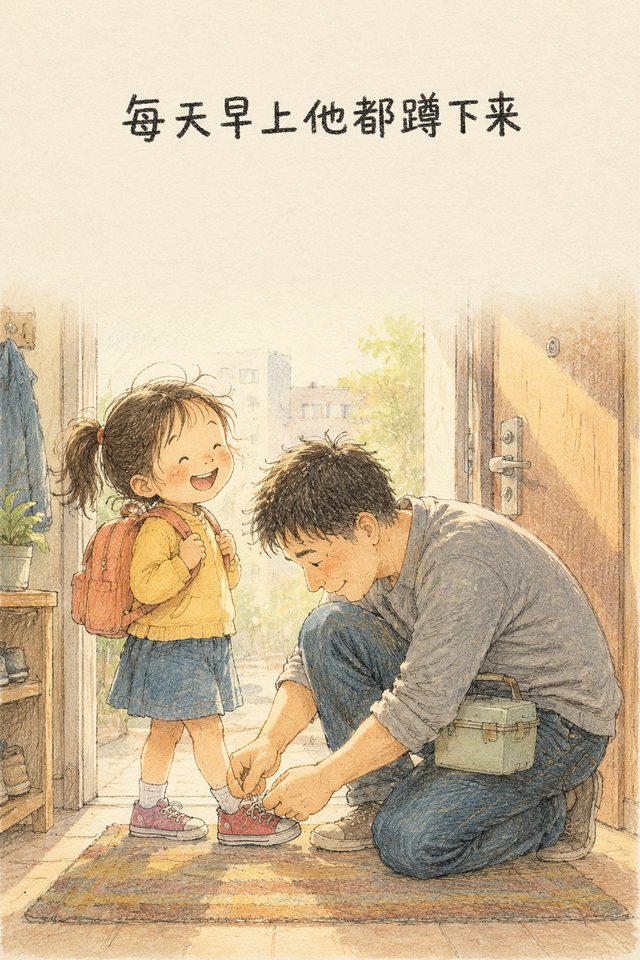
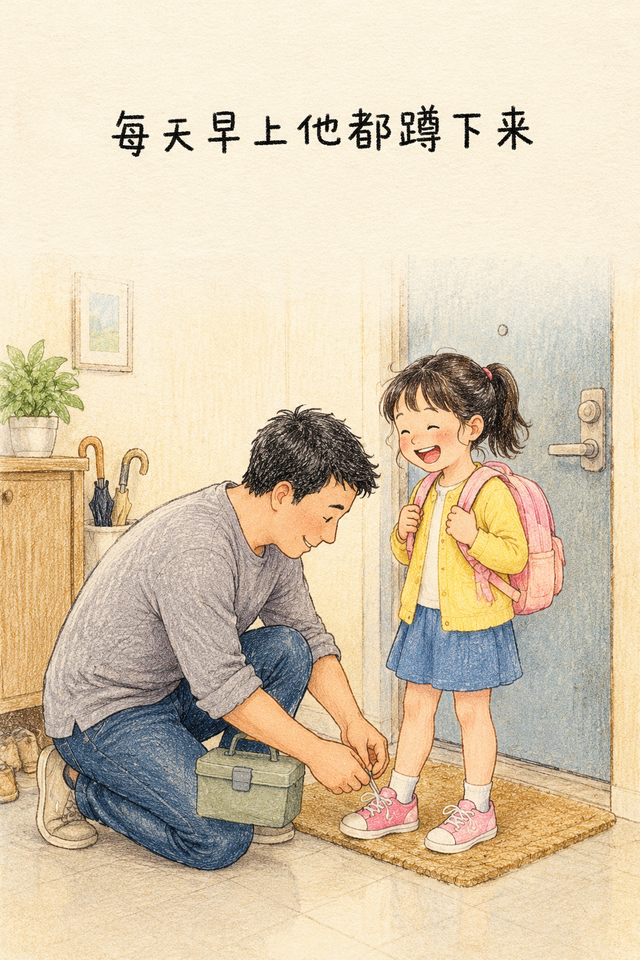
fix(frazee): 画风段改为 handraw-style 原库三段式规范，删除自编画风描述
- STYLES.md / SKILL.md：frazee 配方的画风段只保留 Style name + Reference author/style name
  + Core style traits（原库明令禁止自创特征与通用构图/质量套话）；人读版观察单独标注禁止写进 prompt
- 参考图结论更正：原库 resolve_reference.py --model gpt-image-2 --style FB-060 返回
  use_reference_image=false、activation_source=name+style+traits，即不需垫图；
  取消自动挂参考图，style_reference 改为显式可选字段
- README：更正必垫参考图的说法
- examples/style-frazee.png 换成本次规范版实跑样图

diff --git a/scripts/generate_story.py b/scripts/generate_story.py
@@ -734,12 +734,8 @@ def main() -> int:
     # 画风参考图（可选，V3.4）：如 frazee 用 FB-060 参考图当"画风垫图"，只在无上格成图时使用，
     # 且追加"只参考画风、不准照抄主体/构图"的隔离指令。
     style_ref_path = story.get("style_reference")
-    if not style_ref_path and style == "frazee":
-        _default_style_ref = os.path.join(ROOT, "references", "style-refs",
-                                          "FB-060-marla-frazee.webp")
-        if os.path.isfile(_default_style_ref):
-            style_ref_path = _default_style_ref
-            print("[画风] frazee 未填 style_reference，自动使用内置 FB-060 参考图")
+    # 说明：原库判定脚本对 gpt-image-2 + FB-060 的结论是 use_reference_image=false（不需要垫图），
+    # 所以这里不再自动挂参考图；用户显式写 style_reference 时才当画风垫图用。
 
     os.makedirs(args.output_dir, exist_ok=True)
 

diff --git a/STYLES.md b/STYLES.md
@@ -155,74 +155,45 @@ text blocks. No brand logos, no watermarks, no signatures.
 
 ---
 
-## frazee 绘本水彩（FB-060 · Marla Frazee，儿童绘本铅笔+水彩）
+## frazee 绘本水彩（FB-060 · Marla Frazee）
 
 > 来源：handraw-style 风格库 **FB-060 · Marla Frazee Playful Childlike Pencil & Watercolor Storybook**
-> （原库编号 #316，分组 FB 经典绘本叙事；参考绘本作者 Marla Frazee，三次凯迪克荣誉奖，
-> 技法为黑色 Prismacolor 铅笔线 + 水彩晕染）。2026-10-13 引入 baicat。
+> （原库编号 #316，分组 FB 经典绘本叙事；参考绘本作者 Marla Frazee）。2026-10-13 引入 baicat。
 >
-> **激活说明**：该风格在 GPT Image 2 上属"作者名激活偏弱、核心特征激活强"，且原库 traits 只有
-> 一句作者名（没有可用正向特征），按原库策略**必须垫 FB-060 参考图**——
-> `references/style-refs/FB-060-marla-frazee.webp`，story JSON 用 `"style_reference"` 传；
-> 脚本会自动追加"只参考画风、不准照抄主体/构图"的隔离指令。参考图里的孩子、黄雨衣、水花
-> 一律不得出现在成图里。
+> **画风段严格按原库规范写**：原库 SKILL.md 明令「不得自创画风特征、不得追加通用构图/质量套话」，
+> 提示词只由三段组成 —— `Style name: {generation_name}.` + `Reference author/style name: {作者}.`
+> + `Core style traits: {原库 traits 原样}`。本配方照此逐字填入，**没有添加任何自编画风描述**。
+>
+> **要不要垫参考图**：原库判定脚本实测 `resolve_reference.py --model gpt-image-2 --style FB-060`
+> → `activation_source = name+style+traits`、`use_reference_image = false`，即**不需要垫图**。
+> skill 内仍保留原库样图 `references/style-refs/FB-060-marla-frazee.webp` 供人工比对；
+> 想强制垫图时，story JSON 写 `"style_reference": "<该图路径>"`（脚本会追加只参考画风的隔离指令）。
 
 ```
-Marla Frazee Playful Childlike Pencil & Watercolor Storybook.
-A hand-drawn children's picture-book illustration in the warm, playful style of Marla Frazee
-(a Caldecott Honor picture-book artist): loose, confident BLACK colored-pencil (Prismacolor)
-linework drawn quickly in one continuous pass — slightly wobbly, imperfect, expressive
-contours with visible pencil strokes and sketchy double-lines; no ink pen, no thick black
-comic outline, no comic frames. Transparent watercolor washes laid in loosely over and beside
-the pencil lines, soft blooms and uneven edges where the water pools, dry-brush texture and
-visible pencil hatching for shadow; the colors stay transparent so the pencil drawing still
-reads through them. Playful, childlike and alive.
-
-Characters are drawn the way a gifted picture-book artist draws children: round cheeks and
-small chins, tiny oval eyes with a dot or a small curved lash-line, a simple short nose, a
-small smiling or pouting mouth, tousled flyaway hair, sturdy short limbs and slightly
-oversized heads; whole-body poses full of motion, weight and mischief — jumping, running,
-reaching, splashing, stomping, hiding, hugging — seen from a child's eye level. Expressive
-hands and feet, never stiff, never photoreal, never anime.
+Style name: Marla Frazee Playful Childlike Pencil & Watercolor Storybook.
+Reference author/style name: Marla Frazee.
+Core style traits: 参考绘本作者Marla Frazee.
 
 【光影】. 【画纸】.
 
-Palette: warm muted picture-book colors — butter yellow, brick red, denim blue, olive green,
-warm brown, soft coral — laid thin and slightly uneven, with white paper left showing in
-places. No neon, no flat vector fills, no airbrush gradients, no glossy rendering.
-
 【构图】
 
-Loose hand-drawn pencil lines, visible pencil hatching, soft watercolor bloom edges, paper
-grain and dry-brush texture kept intact and uncompressed. Balanced uncluttered composition,
-subject not crowded against the edges.
-
 【分镜结构】
-
-Warm, gentle, quietly moving children's-storybook atmosphere.
-
-A LARGE clean blank paper area covering roughly the TOP THIRD of the image (and the top third
-of each panel in split composition) is reserved as a narration area. Keep this blank area
-COMPLETELY EMPTY: do NOT draw any Chinese text, character, letter, label or watermark in it —
-no narration, no subtitles, nothing. The blank area is pure paper color: no pencil strokes, no
-objects, no watercolor, no texture marks inside it. The scene below breathes into it: the upper
-background of the drawing fades softly and gradually into the blank paper — no hard edge, no
-visible boundary line.
 
 SCENE: 【主体】
 ```
 
 约束：
-- **必垫参考图**：`references/style-refs/FB-060-marla-frazee.webp`（story JSON `"style_reference"`）。
-  该参考图只贡献线条、水彩、纸张与配色倾向；主体/服装/场景/构图以本 story 的 scene 为准。
-- **光影+画纸整篇锁一套**（与彩铅同一套变量库与轮换规则；脚本自动锁死）。
-- **不支持整页多格（multipanel）**；**支持 split2 双分镜**（总格数 >6 时，与彩铅共用同一套
-  上下拼接规则：每单元 35% 顶部留白、极淡浅灰细线分隔）。
-- **旁白字体统一乐米蜡笔体**：默认 `text_in_image` 把旁白画进图（prompt 已写明"乐米蜡笔体式
-  儿童蜡笔手写体"）；关掉后走 `letter_baicat.py --auto` 用真实字体文件确定性加字（字形 100% 准）。
-- **人物一致性**：照旧用 `{{角色名}}` 占位符 + 人物卡；首格之后以上一张成图为锚点链，锁定跨格一致。
-- **适用题材**：温情、童趣、成长、亲子、治愈、童年回忆。暗黑压抑题材（霸凌/复仇/沉重反思）
-  仍走 `colored-pencil`——米色暗调是那类故事的氛围资产。
+- **画风段只许上面那三行**，禁止再往里塞线条/配色/人物长相之类的自编描述（原库硬规则）。
+  要最纯净的原库版：只留那三行 + 你的主题，把下面 baicat 自己的层也去掉。
+- **【光影】【画纸】是 baicat 自己的防同质化层**（跨篇轮换，避免同画风被判 AI 批量图），不是原库内容；
+  同一篇锁一套、脚本自动锁死并记进 `USAGE.json`。
+- **【构图】【分镜结构】是 baicat 的版式要求**（顶部约1/3纯纸色留白给旁白；split2 上下拼接），
+  属格式约束，不改画风。
+- **旁白字体统一乐米蜡笔体**：默认 `text_in_image` 把旁白画进图（prompt 已写明该笔感）；
+  关掉后走 `letter_baicat.py --auto` 用真实字体文件确定性加字。
+- **支持 split2 双分镜**（总格数 >6）；**不支持整页多格 multipanel**。
+- **适用题材**：温情、童趣、成长、亲子、治愈、童年回忆；暗黑压抑题材仍走 `colored-pencil`。
 
 ---
 

diff --git a/SKILL.md b/SKILL.md
@@ -325,39 +325,42 @@ colored-pencil——米色暗调是那类故事的氛围资产，不是缺陷。
 
 ## 风格 D：frazee 绘本水彩（FB-060 Marla Frazee，用户点名"儿童绘本/绘本水彩/童趣水彩"时）
 
-2026-10-13 新增：从 handraw-style 风格库引入 **FB-060 · Marla Frazee Playful Childlike Pencil
-& Watercolor Storybook**（原库 #316）。参考绘本作者 Marla Frazee（三次凯迪克荣誉奖），
-技法是**黑色 Prismacolor 铅笔线 + 透明水彩晕染**的儿童绘本插画：线条松、抖动、一笔到底；
-水彩淡淡铺在铅笔线旁边，留白露纸；人物圆脸小眼、短手短脚、动作满、有戏。
+2026-10-13 新增：从 handraw-style 风格库引入 **FB-060 · Marla Frazee Playful Childlike
+Pencil & Watercolor Storybook**（原库编号 #316，分组 FB 经典绘本叙事）。
 
-| 维度 | 特征 |
-|------|------|
-| 画风 | 儿童绘本插画：黑色铅笔（彩铅）松线 + 透明水彩薄涂；有纸纹、有蜡笔/干笔质感 |
-| 线条 | 抖动松线、可见铅笔排线与复线；**不是**钢笔/墨线、**没有**黑色粗描边与漫画框 |
-| 人物 | 圆脸颊小下巴、小椭圆眼、短鼻小嘴、蓬乱飞发、短手短脚大头；全身动作有重量有调皮 |
-| 色彩 | 暖调低饱和绘本色（奶油黄、砖红、牛仔蓝、橄榄绿、暖褐、珊瑚粉），薄、不匀、局部露纸 |
-| 构图 | 与其他风格一致：顶部约 1/3 纯纸色留白给旁白，画面集中下方 2/3 |
-| 文字 | 旁白字体统一乐米蜡笔体（默认画进图；关掉后 letter_baicat 确定性加字） |
-| 适用 | 温情、童趣、成长、亲子、治愈、童年回忆；暗黑压抑题材仍用 colored-pencil |
+**配方按原库规范逐字写，不加自编描述。** 原库 SKILL.md 有硬性两条：① 不得自创画风特征、
+不得追加通用构图/质量套话；② 提示词只由三段构成 —— `Style name:` + `Reference author/style name:`
++ `Core style traits:`（traits 原样照抄索引里的值）。所以本风格的画风段就是这三行：
 
-**配方真源**：`STYLES.md` 的「frazee 绘本水彩（FB-060 · Marla Frazee，儿童绘本铅笔+水彩）」代码块，
-只填 `【主体】`（+【光影】【画纸】【构图】【分镜结构】由脚本自动填），禁止手工缩写改写。
-
-**必垫参考图（该风格独有要求）**：FB-060 在 GPT Image 2 上"作者名激活偏弱、核心特征激活强"，
-而原库该风格的可写特征只有一句作者名——所以**必须把参考图当画风垫图传进去**：
-
-```json
-{ "style": "frazee",
-  "style_reference": "/var/minis/skills/baicat/references/style-refs/FB-060-marla-frazee.webp",
-  "lighting": 1, "paper": 1, "split2": true }
+```
+Style name: Marla Frazee Playful Childlike Pencil & Watercolor Storybook.
+Reference author/style name: Marla Frazee.
+Core style traits: 参考绘本作者Marla Frazee.
 ```
 
-脚本行为：**story JSON 不写 `style_reference` 时自动用内置 FB-060 参考图**；首格把它当画风垫图
-（并自动追加"只参考画风、不准照抄主体/构图"的隔离指令），第 2 格起改用上一格成图做锚点链，
-保证跨格一致。**参考图里的孩子/黄雨衣/水花不得出现在成图里。**
+**⚠ 禁止**为了"看起来更详细"往里加线条/配色/人物长相之类自己编的描述——这正是原库明令禁止的
+（自编特征会覆盖模型对这个作者的原生理解，越加越不像）。
 
-**支持范围**：逐格单图 + split2 双分镜（总格数 >6 时；与彩铅共用同一套上下拼接规则）；
-**不支持** multipanel 整页多格（该路线配方与布局模板绑彩铅纸张）。
+**要不要垫参考图**：不用。原库判定脚本实测
+`resolve_reference.py --model gpt-image-2 --style FB-060` →
+`activation_source = name+style+traits`、`use_reference_image = false`。
+skill 内保留原库样图 `references/style-refs/FB-060-marla-frazee.webp` 只作人工比对；
+要强制垫图时 story JSON 写 `"style_reference": "<该图路径>"`（脚本自动追加只参考画风的隔离指令）。
+
+**baicat 自己加的两层（属格式/防同质化，不是画风）**：
+- 【光影】【画纸】变量：跨篇轮换避免同画风被判 AI 批量图，同一篇锁一套（脚本锁死，记 USAGE.json）。
+- 【构图】【分镜结构】：顶部约 1/3 纯纸色留白给旁白 + split2 上下拼接规则，与其他风格共用。
+
+**人读版观察（仅供人看，禁止写进 prompt）**——原库该风格的可写特征只有一句作者名，
+下面这些是看原库样图 + 公开资料总结的，**不进提示词**：
+
+| 维度 | 观察 |
+|------|------|
+| 技法 | 黑色 Prismacolor 铅笔松线 + 透明水彩晕染，纸纹可见（公开资料：她的绘本即用此技法） |
+| 气质 | 儿童绘本、童趣、温暖、动作富有戏感 |
+| 适用 | 温情、童趣、成长、亲子、治愈、童年回忆；暗黑压抑题材仍走 `colored-pencil` |
+
+**支持范围**：逐格单图 + split2 双分镜（总格数 >6）；**不支持** multipanel 整页多格。
 
 ---
 

diff --git a/README.md b/README.md
@@ -27,8 +27,8 @@ baicat V3 把整个内容生产链沉淀成一个 Skill，**AI 不当裁判**（
 | **绘本水彩** | `frazee` | 儿童绘本：黑铅笔松线 + 透明水彩晕染，童趣暖调，纸纹可见 | 说"儿童绘本/绘本水彩/童趣水彩/FB-060/Marla Frazee" |
 | **涂鸦** | `doodle` | 黑白线稿 + 唯一红色点缀，Q版简笔，丧系自嘲 | 明确强调"涂鸦/黑白涂鸦/丧系涂鸦" |
 
-**默认彩铅直接出图**；温情清爽题材可切彩铅留白；儿童绘本/童趣题材可切绘本水彩（`frazee`，**必须垫
-FB-060 参考图**，见 SKILL.md 风格 D）；只有明确强调"涂鸦"才切涂鸦。暗黑压抑题材（霸凌、复仇）留米色暗调默认彩铅。
+**默认彩铅直接出图**；温情清爽题材可切彩铅留白；儿童绘本/童趣题材可切绘本水彩（`frazee`，画风段
+严格按 handraw-style 原库三段式写、不自编特征、不需要垫图，见 SKILL.md 风格 D）；只有明确强调"涂鸦"才切涂鸦。暗黑压抑题材（霸凌、复仇）留米色暗调默认彩铅。
 
 > **旁白字体统一**：V3.4 起全部风格的图上文字都用**乐米蜡笔体 LemiLaBiTi**（童趣蜡笔手写体，
 > 免费商用）——生图自带字的 prompt 已写明该笔感；走确定性加字时用 `assets/fonts/` 里的真实字体文件，
@@ -172,7 +172,7 @@ baicat/
 │   ├── 数据复盘表.md               # 发布数据复盘 + V3 反哺闭环
 │   ├── lettering-manifest.example.json
 │   └── style-refs/
-│       └── FB-060-marla-frazee.webp  # frazee 绘本水彩的必垫画风参考图（handraw-style FB-060）
+│       └── FB-060-marla-frazee.webp  # frazee 的原库样图（人工比对用；原库判定无需垫图）
 ├── assets/
 │   └── fonts/
 │       ├── LemiLaBiTi-Regular.ttf    # 乐米蜡笔体（旁白默认字体，免费商用；已 gitignore）
